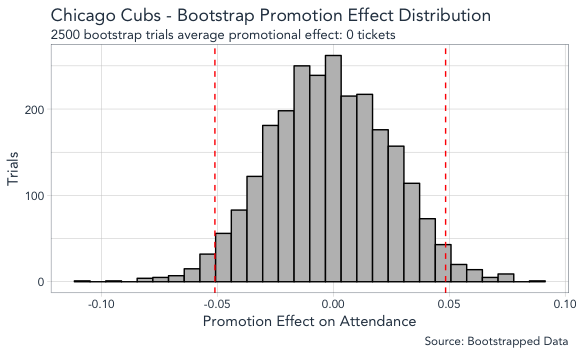
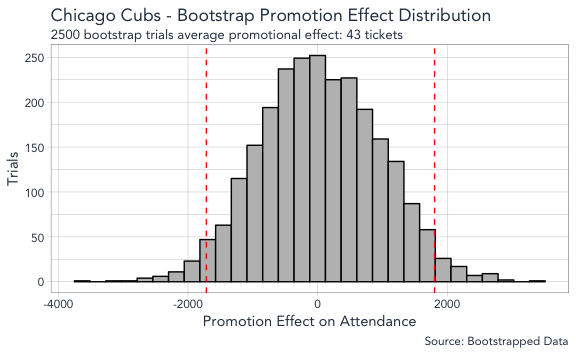
Fix regression plot bug on README

diff --git a/README.md b/README.md
@@ -704,7 +704,7 @@ p_val <- null_distn %>%
 p_val
 ```
 
-    ## [1] 0.0198
+    ## [1] 0.0172
 
 As a simple first step, we will contruct a regression model using month,
 day of week, day time, and promotion as predictors. We can use the
@@ -720,8 +720,8 @@ Unfortunately, we do not see a statistically meaninful signal being
 detected for promotions on attendane.
 
 ``` r
-# log transform attendance and create regression model/summary
-mod_form <- as.formula(log(attend) ~ month + day_of_week + day_night + promotion)
+# create regression model/summary
+mod_form <- as.formula(attend ~ month + day_of_week + day_night + promotion)
 full_mod <- lm(mod_form, data = games_tbl)
 summary(full_mod)
 ```
@@ -731,31 +731,31 @@ summary(full_mod)
     ## lm(formula = mod_form, data = games_tbl)
     ## 
     ## Residuals:
-    ##      Min       1Q   Median       3Q      Max 
-    ## -0.33998 -0.08731  0.00860  0.05574  0.37139 
+    ##     Min      1Q  Median      3Q     Max 
+    ## -9378.3 -2349.0    60.6  1557.7 12041.7 
     ## 
     ## Coefficients:
     ##                      Estimate Std. Error t value Pr(>|t|)    
-    ## (Intercept)          10.19680    0.07275 140.167   <2e-16 ***
-    ## monthMAY             -0.03361    0.06350  -0.529   0.5984    
-    ## monthJUN              0.18663    0.07444   2.507   0.0146 *  
-    ## monthJUL              0.09102    0.06505   1.399   0.1664    
-    ## monthAUG             -0.05315    0.06447  -0.824   0.4127    
-    ## monthSEP             -0.13081    0.06127  -2.135   0.0365 *  
-    ## day_of_weekTuesday    0.16292    0.07089   2.298   0.0247 *  
-    ## day_of_weekWednesday  0.07149    0.06682   1.070   0.2886    
-    ## day_of_weekThursday   0.07913    0.07575   1.045   0.3000    
-    ## day_of_weekFriday     0.14917    0.06729   2.217   0.0301 *  
-    ## day_of_weekSaturday   0.17136    0.07892   2.171   0.0335 *  
-    ## day_of_weekSunday     0.08087    0.07553   1.071   0.2882    
-    ## day_nightNight       -0.11483    0.05143  -2.233   0.0290 *  
-    ## promotionYES         -0.04842    0.05959  -0.812   0.4194    
+    ## (Intercept)             27388       2204  12.427   <2e-16 ***
+    ## monthMAY                -1593       1924  -0.828   0.4106    
+    ## monthJUN                 5037       2255   2.234   0.0289 *  
+    ## monthJUL                 2182       1971   1.107   0.2722    
+    ## monthAUG                -2188       1953  -1.120   0.2666    
+    ## monthSEP                -3988       1856  -2.148   0.0354 *  
+    ## day_of_weekTuesday       4603       2148   2.143   0.0358 *  
+    ## day_of_weekWednesday     2080       2024   1.027   0.3079    
+    ## day_of_weekThursday      2651       2295   1.155   0.2522    
+    ## day_of_weekFriday        3941       2038   1.933   0.0575 .  
+    ## day_of_weekSaturday      4770       2391   1.995   0.0502 .  
+    ## day_of_weekSunday        2391       2288   1.045   0.2998    
+    ## day_nightNight          -2914       1558  -1.871   0.0658 .  
+    ## promotionYES            -1003       1805  -0.555   0.5805    
     ## ---
     ## Signif. codes:  0 '***' 0.001 '**' 0.01 '*' 0.05 '.' 0.1 ' ' 1
     ## 
-    ## Residual standard error: 0.1579 on 66 degrees of freedom
-    ## Multiple R-squared:  0.4361, Adjusted R-squared:  0.325 
-    ## F-statistic: 3.926 on 13 and 66 DF,  p-value: 0.0001046
+    ## Residual standard error: 4782 on 66 degrees of freedom
+    ## Multiple R-squared:  0.4056, Adjusted R-squared:  0.2885 
+    ## F-statistic: 3.464 on 13 and 66 DF,  p-value: 0.0004114
 
 Evaluation
 ----------
@@ -916,9 +916,9 @@ p_val <- bt_promo_coef %>%
 print(p_val)
 ```
 
-    ## [1] 0.2216
+    ## [1] 0.2948
 
-The result shows about 22% chance that promotions have a positive
+The result shows about 29% chance that promotions have a positive
 influence on game attendance, after controlling for month, day of week,
 and daytime of the game.
 
